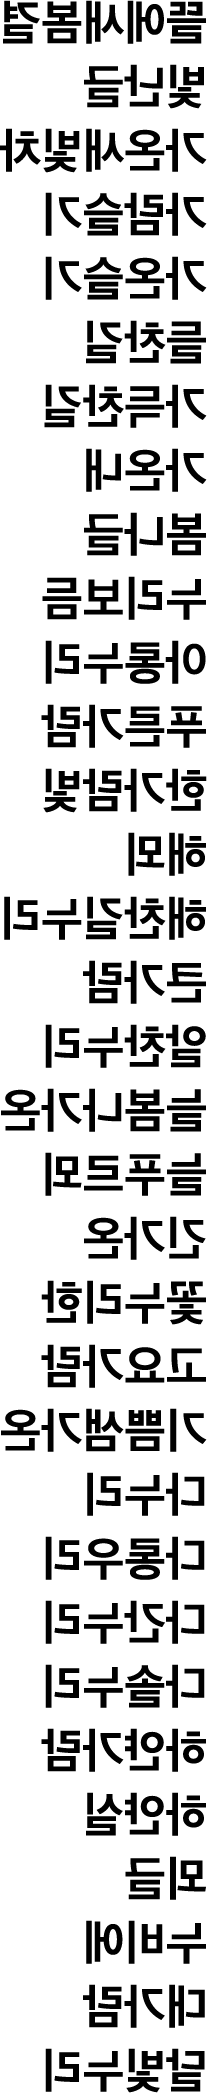
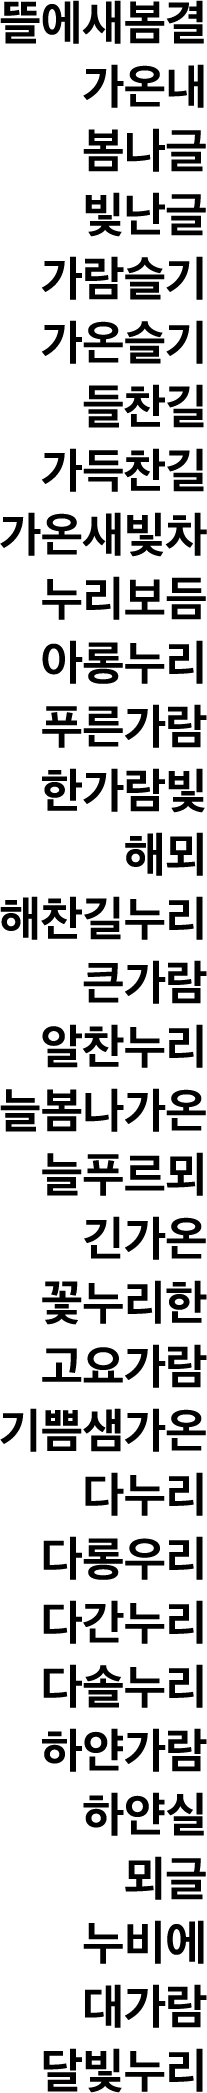
y

diff --git a/index.html b/index.html
@@ -43,17 +43,17 @@
 }
 
 @keyframes slows {
-  0% {top: -3200px;}
+  0% {top: -2200px;}
   100% {top: 0px;}
   
 }
 .txt1{position: absolute; top: 0px; left: 10px; width: 200px; height: 100%; animation: slow infinite 10s alternate linear; z-index: -999;}
 
-.txt2{position: absolute; top: 0px; left: 260px; width: 200px; height: 100%; animation: slows infinite 10s alternate linear;}
+.txt2{position: absolute; top: 0px; left: 210px; width: 200px; height: 100%; animation: slows infinite 10s alternate linear;}
 
-.txt3{position: absolute; top: 0px; right: 10px; width: 200px; height: 100%; animation: slow infinite 10s alternate linear; z-index: -999;}
+.txt3{position: absolute; top: 0px; right: -30px; width: 200px; height: 100%; animation: slow infinite 10s alternate linear; z-index: -999;}
 
-.txt4{position: absolute; top: 0px; right: 260px; width: 200px; height: 100%; animation: slows infinite 10s alternate linear;}
+.txt4{position: absolute; top: 0px; right: 170px; width: 200px; height: 100%; animation: slows infinite 10s alternate linear;}
 
 #title {position: absolute; top: 0px; right: 7px; float: right; width: 485px; height: 100%; visibility: hidden; z-index: 999;}
 #title img{width: 100%; margin-top: 10px; }
@@ -68,21 +68,21 @@
 </head>
 
 <body style="overflow: hidden;" id="wrap" onmouseover="function(show)">
- 
+ <canvas id="canvas-1"></canvas>
 <a href="page2.html">
-  <canvas id="canvas-1"></canvas>
+  
 </a>
   
     
     <div class="txt1">
-      <img src="matxt2.png">
-      <img src="matxt2.png">
-      <img src="matxt2.png">
+      <img src="matxt5.png" style="width: 80%;">
+      <img src="matxt5.png" style="width: 80%;">
+      <img src="matxt5.png" style="width: 80%;">
     </div>
 
     <div class="txt2">
-      <img src="matxt2.png">
-      <img src="matxt2.png">
+      <img src="matxt5.png" style="width: 80%;">
+      <img src="matxt5.png" style="width: 80%;">
       
     </div>
 
@@ -95,14 +95,14 @@
 
     <div id="rightone">
       <div class="txt3">
-        <img src="matxt3.png">
-        <img src="matxt3.png">
-        <img src="matxt3.png">
+        <img src="matxt4.png" style="width: 80%;">
+        <img src="matxt4.png" style="width: 80%;">
+        <img src="matxt4.png" style="width: 80%;">
       </div>
 
       <div class="txt4">
-       <img src="matxt3.png">
-       <img src="matxt3.png"> 
+       <img src="matxt4.png" style="width: 80%;">
+       <img src="matxt4.png" style="width: 80%;"> 
       </div>
     </div>
       

diff --git a/page3.html b/page3.html
@@ -2691,9 +2691,7 @@
       </div>
       
     </div>
-<div class="nohow" onclick="shownhct()">
-  ?
-</div>
+
 <div class="ftr" style="width: 100%; height: 80px; background-color: white; border-top: 1px solid black; position: fixed; bottom: 0px; left: 0px; text-align: center; font-weight: 700; font-size: 3.1em;">
 
   <div class="bfbt" style="position: absolute; z-index: 999;"><a href="page2.html">◀ 서문</a></div>
@@ -2701,7 +2699,7 @@
   <div class="nwbt" style="position: relative; right: -10px;"><a href="index.html">HOME</a></div>
   
 
-  <div class="nxbt"><a href="page4.html">도움말 ▶</a></div></div>
+  <div class="nxbt" onclick="shownhct()" style="cursor: pointer;">도움말 ▶</div></div>
 
     <!-- Optional JavaScript -->
     <!-- jQuery first, then Popper.js, then Bootstrap JS -->

diff --git a/lay.css b/lay.css
@@ -220,8 +220,8 @@ font-weight: 600; font-size: 1.7em; line-height: 1.7em; background-color: white;
 
 .nohow{font-size: 7em; font-weight: 700; position: fixed; bottom: -20px; right: 20px;
 cursor: pointer;}
-#nhct img{margin-top: 1%;  width: 90%;}
-#nhct{text-align: center; font-size: 1.5em; width: 500px; height: 300px; background-color: white; border: 1px solid black;
+#nhct img{margin-top: 5%;  width: 90%;}
+#nhct{border-radius: 10px; text-align: center; font-size: 1.5em; width: 500px; height: 300px; background-color: white; border: 1px solid black;
 position: fixed; top: 0px; right: 0px; display: none; padding: 10px; 
 float: left; overflow: hidden;
 animation-name: wnhct; animation-duration: 1s; animation-timing-function: steps(20); z-index: 999;}
